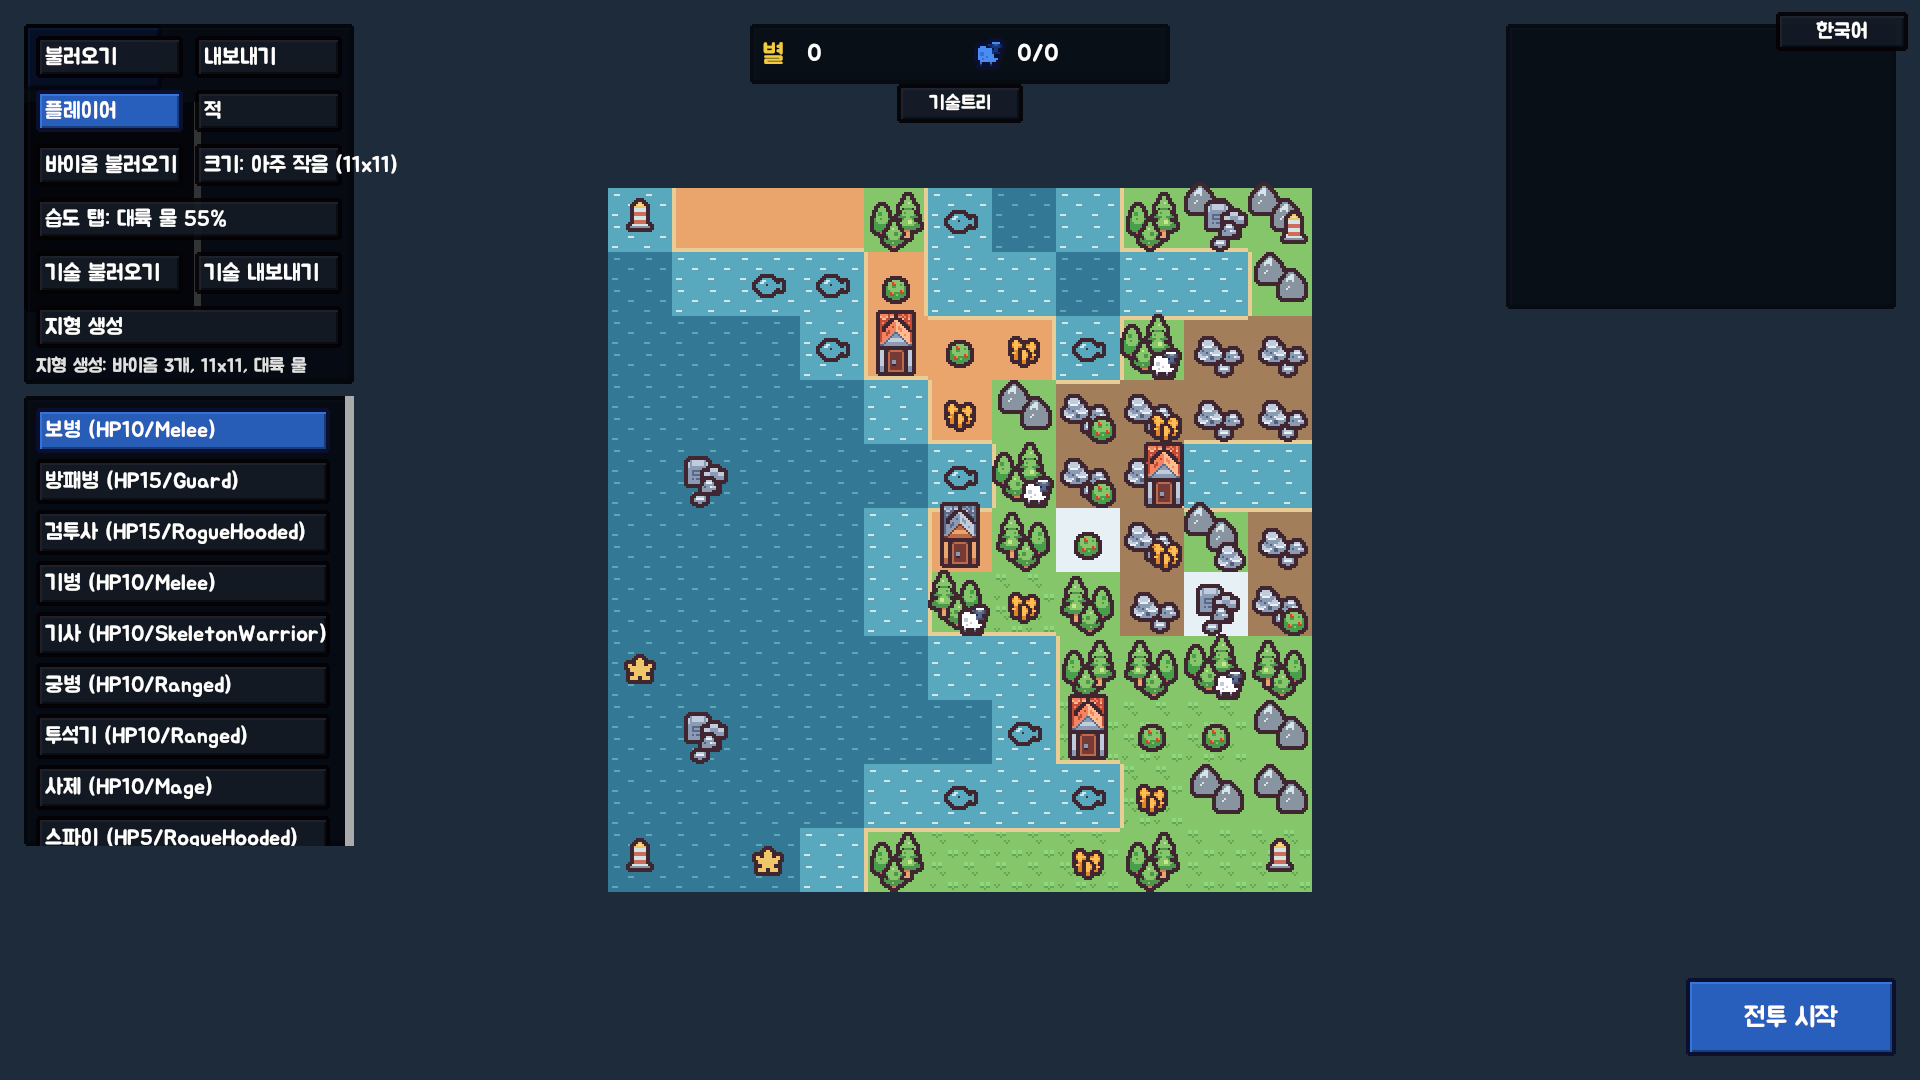
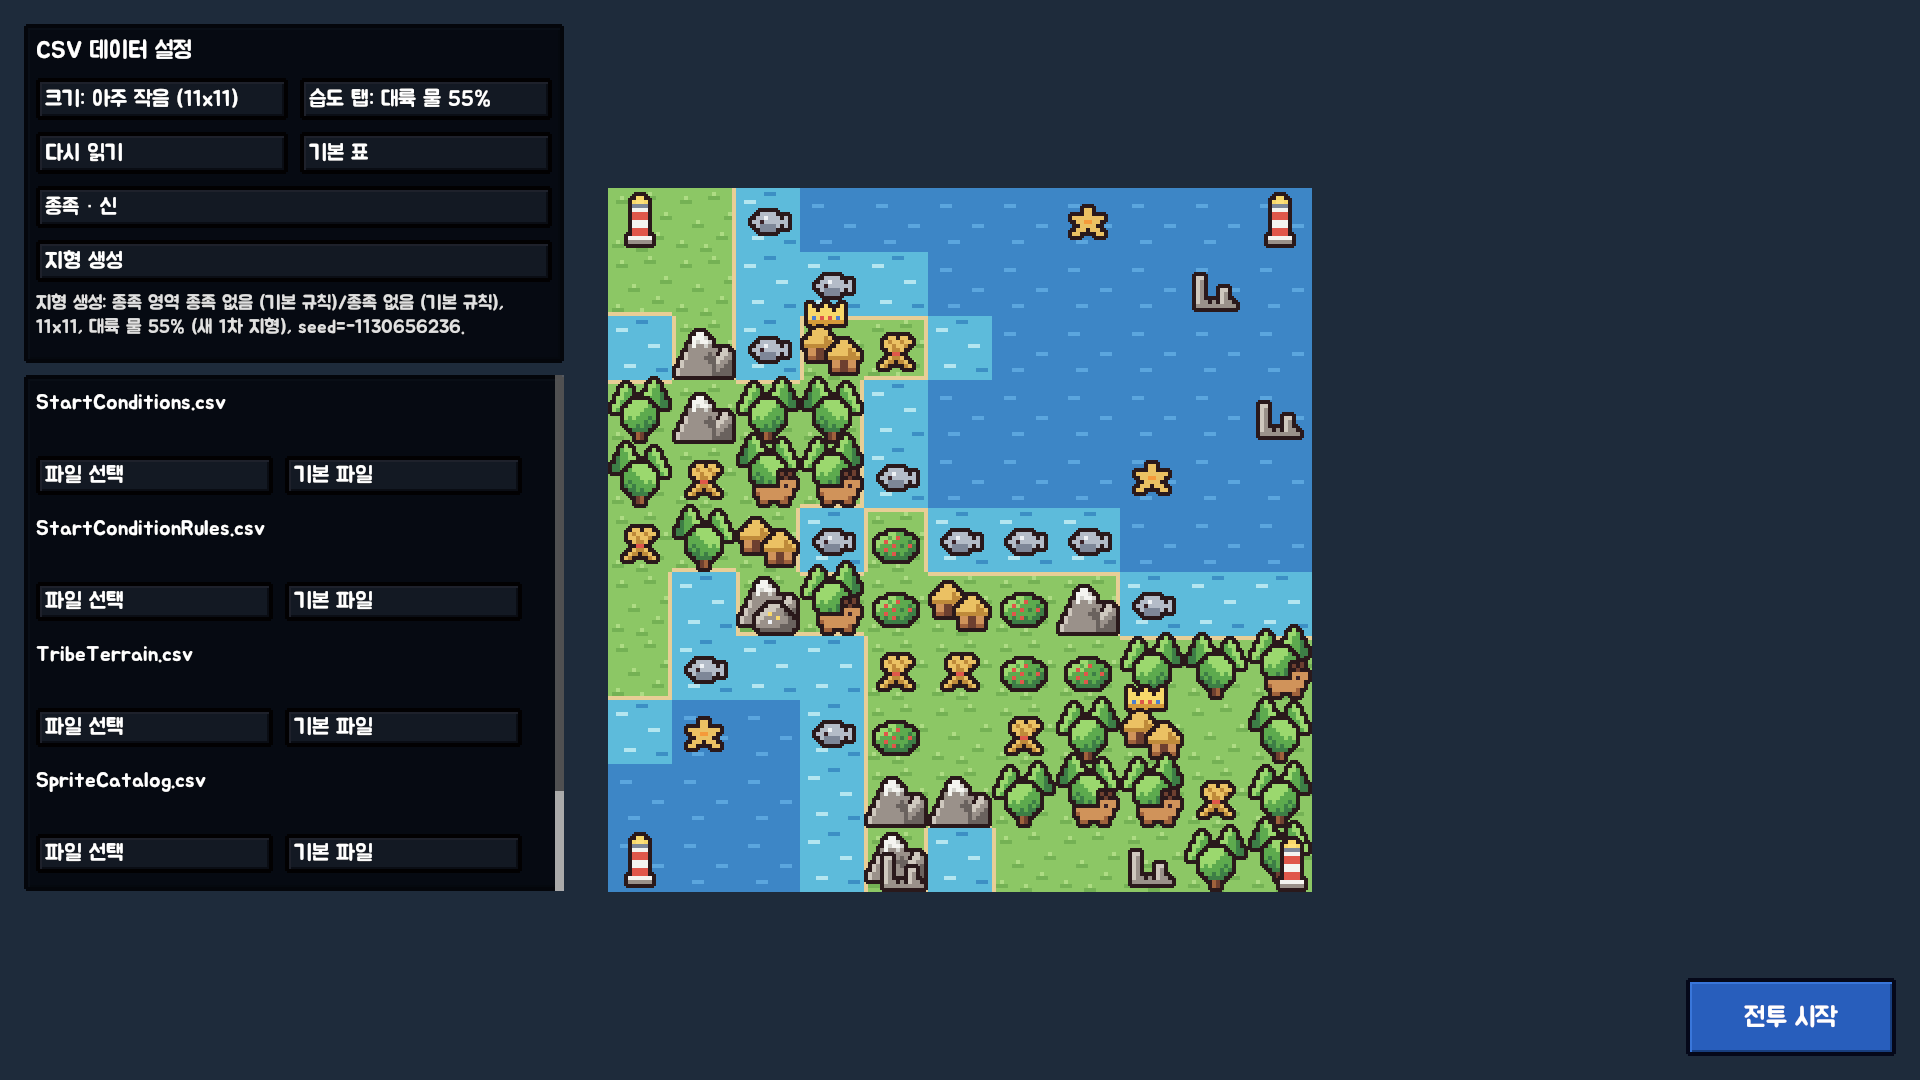
fix(tools): pixel2d capture loads sandbox units via HandleSandboxCsvSelected
HandleSandboxLoad was removed in the HUD refactor, so the Sandbox step of
Pixel2DVerification.Capture threw a NullReferenceException. It now copies
Resources Units.csv and selects it as the Units table override, the same
path the sandbox CSV picker uses. Regenerated SandboxGenerated.png and
TechTree.png with the new pixel art.

diff --git a/Assets/Editor/Pixel2DVerification.cs b/Assets/Editor/Pixel2DVerification.cs
@@ -300,8 +300,8 @@ namespace TacticsECS.EditorTools
                 }
                 if(name=="Sandbox")
                 {
-                    File.WriteAllText("Temp/SandboxUnits.csv",UnitCsvSerializer.Write(GameTables.Units));
-                    typeof(BattleController).GetMethod("HandleSandboxLoad",BindingFlags.Instance|BindingFlags.NonPublic).Invoke(controller,new object[]{Path.GetFullPath("Temp/SandboxUnits.csv")});
+                    File.Copy("Assets/Resources/"+GameTables.UnitsPath+".csv","Temp/SandboxUnits.csv",true);
+                    typeof(BattleController).GetMethod("HandleSandboxCsvSelected",BindingFlags.Instance|BindingFlags.NonPublic).Invoke(controller,new object[]{GameTables.UnitsPath,Path.GetFullPath("Temp/SandboxUnits.csv")});
                     Call(controller,"HandleGenerateTerrain");
                     CaptureCamera(Camera.main,"docs/images/pixel2d/SandboxGenerated.png",1920,1080,true);
                     var tech=controller.GetComponentInChildren<TechTreeHud>(true);
